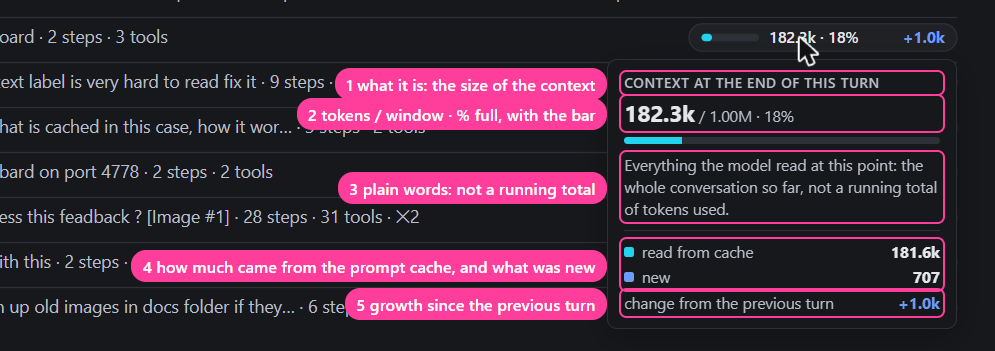
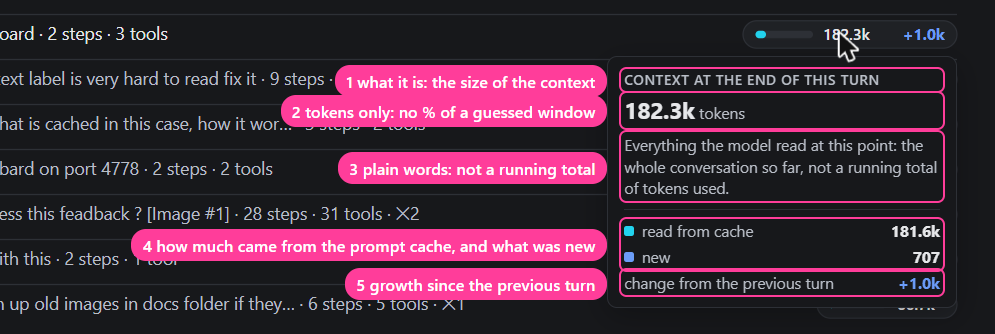
fix: context badges show tokens, not a percentage of a guessed window
The window is a guess (200k until the model's name or the tokens say 1M), so the
percentage jumped (91% → 18%) when a session crossed 200k. The badges, their hover
card, the session chip and a model step in Details now show tokens only. The bars use
one scale per session (the largest context it reached), so turns don't change scale
against each other.

diff --git a/server/dashboard/features/events/render/context-badge.js b/server/dashboard/features/events/render/context-badge.js
@@ -1,8 +1,8 @@
 'use strict';
-// Session Observer dashboard — the context badge: a bar, the size, % of the window and the change, as HTML or SVG.
-const percentOf = size => Math.round(size.fraction * 100);
+// Session Observer dashboard — the context badge: a bar, the size and the change, as HTML or SVG. No "% of the
+// window": the window is a guess (200k until the model's name or the tokens say 1M), so a percentage would jump.
 // what the number is (the whole conversation the model read, not a running total), the cache split, and the change
-const contextBadgeTooltip = size => TEXT.ctxEndTip(TEXT.ofPct(formatCompactNumber(size.tokens), formatCompactNumber(size.window), percentOf(size)))
+const contextBadgeTooltip = size => TEXT.ctxEndTip(formatCompactNumber(size.tokens))
   + '\n' + TEXT.ctxWhatTip
   + (size.cached == null ? '' : '\n' + TEXT.ctxCacheTip(formatCompactNumber(size.cached), formatCompactNumber(Math.max(0, size.tokens - size.cached))))
   + (size.change == null ? '' : '\n' + TEXT.ctxChangeTip(size.changeText, size.change < 0));
@@ -15,7 +15,7 @@ function contextBadgeHtml(size) {
   if (!size) return '';
   const change = size.changeText ? `<span class="cd ${size.tone}">${size.changeText}</span>` : '';
   return `<span class="ctxb" ${contextBadgeData(size)} aria-label="${escapeHtml(contextBadgeTooltip(size))}"><span class="cbar"><i style="width:${(size.fraction * 100).toFixed(1)}%"></i></span>`
-    + `<b>${formatCompactNumber(size.tokens)}</b><span class="muted">${percentOf(size)}%</span>${change}</span>`;
+    + `<b>${formatCompactNumber(size.tokens)}</b>${change}</span>`;
 }
 
 // the context badge in SVG, right-aligned at rightX on a turn divider (baseline y)
@@ -29,7 +29,7 @@ const BADGE = {
 function contextBadgeSvg(size, rightX, y) {
   if (!size) return '';
   const changeWidth = size.changeText ? size.changeText.length * BADGE.charWidth + BADGE.changeRoom : 0;
-  const valueText = `${formatCompactNumber(size.tokens)} · ${percentOf(size)}%`, valueWidth = valueText.length * BADGE.charWidth + BADGE.valueRoom;
+  const valueText = formatCompactNumber(size.tokens), valueWidth = valueText.length * BADGE.charWidth + BADGE.valueRoom;
   const width = BADGE.padding + BADGE.barWidth + BADGE.barGap + valueWidth + changeWidth, left = rightX - width;
   const barX = left + BADGE.padding, barY = y - BADGE.barTop, barRadius = BADGE.barHeight / 2;
   return `<g class="ctxs" ${contextBadgeData(size)} aria-label="${escapeHtml(contextBadgeTooltip(size))}"><rect class="cbg" x="${left}" y="${y - BADGE.top}" width="${width}" height="${BADGE.height}" rx="${BADGE.height / 2}"/>`

diff --git a/server/dashboard/features/route/model.js b/server/dashboard/features/route/model.js
@@ -194,6 +194,13 @@ function turnEndStepTokens(turn) {
 }
 const turnEndContextTokens = turn => turnEndStepTokens(turn)?.context ?? null;
 
+// the largest end-of-turn context of a session's turns (cached per list of turns: every turn's badge asks)
+const largestContextCache = new WeakMap();
+function largestTurnContext(sessionTurns) {
+  if (!largestContextCache.has(sessionTurns)) largestContextCache.set(sessionTurns, Math.max(0, ...sessionTurns.map(turn => turnEndContextTokens(turn) || 0)));
+  return largestContextCache.get(sessionTurns);
+}
+
 // context at the end of this turn, its change from the end of the turn before, and how full the window is
 function turnContextInfo(sessionTurns, turn) {
   const stepTokens = turnEndStepTokens(turn);
@@ -202,7 +209,7 @@ function turnContextInfo(sessionTurns, turn) {
   let previous = null;
   for (let index = sessionTurns.indexOf(turn) - 1; index >= 0 && previous == null; index--) previous = turnEndContextTokens(sessionTurns[index]);
   const session = state.sessions.get(turn.sessionId);
-  const window = contextWindowFor(session?.agent, session?.context?.window, tokens);
+  const window = contextWindowFor(session?.agent, session?.context?.window, largestTurnContext(sessionTurns));
   const change = previous == null ? null : tokens - previous;
   return contextSize(tokens, change, window, change == null ? '' : signedTokens(change), stepTokens.cache_read ?? null);
 }

diff --git a/server/dashboard/dashboard.css b/server/dashboard/dashboard.css
@@ -318,11 +318,9 @@ svg.metro { display: block; }
 #ctxtip { display: none; position: fixed; z-index: 50; width: 280px; pointer-events: none; padding: 11px 13px; background: var(--panel); color: var(--text);
   border: 1px solid var(--line); border-radius: 8px; box-shadow: 0 6px 24px rgba(0, 0, 0, .25); font-size: 12.5px; line-height: 1.4; }
 #ctxtip .ct-h { color: var(--muted); font-size: 11px; font-weight: 600; text-transform: uppercase; letter-spacing: .05em; }
-#ctxtip .ct-size { margin-top: 4px; font-variant-numeric: tabular-nums; }
+#ctxtip .ct-size { margin: 4px 0 6px; font-variant-numeric: tabular-nums; }
 #ctxtip .ct-size b { font-size: 18px; }
 #ctxtip .ct-size span { color: var(--muted); }
-#ctxtip .ct-bar { height: 6px; margin: 6px 0 8px; border-radius: 3px; background: var(--line); overflow: hidden; }
-#ctxtip .ct-bar i { display: block; height: 100%; background: var(--s-context); }
 #ctxtip .ct-what { color: var(--muted); }
 #ctxtip .ct-rows { margin-top: 8px; padding-top: 8px; border-top: 1px solid var(--line); display: grid; gap: 3px; }
 #ctxtip .ct-row { display: flex; justify-content: space-between; gap: 12px; font-variant-numeric: tabular-nums; }

diff --git a/server/dashboard/features/details/render/event-cards.js b/server/dashboard/features/details/render/event-cards.js
@@ -184,7 +184,7 @@ function stepTokensHtml(tokens, contextTokens, window) {
   const segments = [['cache_read', TEXT.cacheRead, 'var(--s-context)'], ['cache_write', TEXT.cacheWrite, 'var(--s-model)'], ['input', TEXT.uncached, 'var(--accent)']];
   const bar = segments.map(([field, , color]) => (tokens[field] ? `<i style="width:${(100 * tokens[field] / window).toFixed(2)}%;background:${color}"></i>` : '')).join('');
   const legend = segments.map(([field, label, color]) => `<span><i style="background:${color}"></i>${label} <b>${formatCompactNumber(tokens[field] || 0)}</b></span>`).join('');
-  return `<div><div class="k">${escapeHtml(TEXT.groups.context)} · ${escapeHtml(TEXT.ofPct(formatCompactNumber(contextTokens), formatCompactNumber(window), Math.round(100 * contextTokens / window)))}</div><div class="tokbar">${bar}</div>
+  return `<div><div class="k">${escapeHtml(TEXT.groups.context)} · ${escapeHtml(formatCompactNumber(contextTokens))} ${escapeHtml(TEXT.tokensLc)}</div><div class="tokbar">${bar}</div>
     <div class="toklg">${legend}<span>${escapeHtml(TEXT.outputLc)} <b>${formatCompactNumber(tokens.output || 0)}</b></span></div></div>`;
 }
 

diff --git a/server/dashboard/features/sessions/render.js b/server/dashboard/features/sessions/render.js
@@ -52,7 +52,7 @@ function sessionChipsHtml(session) {
     + (session.model ? `<span class="chip">${escapeHtml(session.model)}</span>` : '')
     + (session.subagents ? `<span class="chip">${iconSvg('agents')}${session.subagents}</span>` : '')
     + (session.failures ? `<span class="chip"><span class="x">✕ ${session.failures}</span></span>` : '')
-    + (session.context ? `<span class="chip" title="${escapeHtml(TEXT.ctxWindow)}">${escapeHtml(TEXT.ctxShort)} ${Math.round(session.context.pct * 100)}%</span>` : '');
+    + (session.context ? `<span class="chip" title="${escapeHtml(TEXT.ctxWindow)}">${escapeHtml(TEXT.ctxShort)} ${formatCompactNumber(session.context.tokens)}</span>` : '');
 }
 
 // The list shows the state dot, the title, and under it when and where; the rest is in a card that floats beside it on hover.

diff --git a/server/dashboard/features/context/model.js b/server/dashboard/features/context/model.js
@@ -61,7 +61,9 @@ const splitMcpToolName = name => { const match = /^mcp__(.+?)__(.+)$/.exec(name)
 // a context size for a badge (see contextSize in features/events/model/context-window.js)
 function contextSizeInfo(tokens, change, cached = null) {
   const data = contextView.data;
-  const window = data?.window || contextWindowFor(data?.agent, data?.context?.window, tokens);
+  // the largest step of the session picks the window, so every badge uses the same scale
+  const largest = Math.max(tokens, ...(data?.items || []).filter(item => item.kind === 'step').map(step => step.ctx || 0));
+  const window = data?.window || contextWindowFor(data?.agent, data?.context?.window, largest);
   return contextSize(tokens, change, window, change ? signedTokens(change) : '', cached);
 }
 

diff --git a/server/dashboard/features/events/controls/context-tip.js b/server/dashboard/features/events/controls/context-tip.js
@@ -24,8 +24,7 @@ function contextTipHtml(size) {
     rows.push(`<div class="ct-row ct-change"><span>${escapeHtml(label)}</span><b class="cd ${size.tone}">${escapeHtml(size.changeText)}</b></div>`);
   }
   return `<div class="ct-h">${escapeHtml(TEXT.ctxTipTitle)}</div>
-    <div class="ct-size"><b>${formatCompactNumber(size.tokens)}</b> <span>/ ${formatCompactNumber(size.window)} · ${percentOf(size)}%</span></div>
-    <div class="ct-bar"><i style="width:${(size.fraction * 100).toFixed(1)}%"></i></div>
+    <div class="ct-size"><b>${formatCompactNumber(size.tokens)}</b> <span>${escapeHtml(TEXT.tokensLc)}</span></div>
     <div class="ct-what">${escapeHtml(TEXT.ctxWhatTip)}</div>
     ${rows.length ? `<div class="ct-rows">${rows.join('')}</div>` : ''}`;
 }

diff --git a/server/dashboard/building-blocks/language/translations/ja.js b/server/dashboard/building-blocks/language/translations/ja.js
@@ -130,6 +130,7 @@ TRANSLATIONS.ja = (() => {
     eventTypes: 'イベントの種類',
 
     backX: d => `戻り · ${d}`,
+    tokensLc: 'トークン',
     ctxTipTitle: 'このターン終了時のコンテキスト', ctxTipNew: '新規', ctxTipChange: '前のターンからの変化', ctxTipCompacted: '圧縮済み',
     ctxWhatTip: 'この時点でモデルが読んだすべて：これまでの会話全体であり、使用トークンの累計ではありません。', ctxCacheTip: (cached, fresh) => `うちキャッシュから: ${cached} · 新規: ${fresh}`,
     ctxEndTip: o => `このターン終了時のコンテキスト: ${o}`, ctxChangeTip: (d, comp) => `前のターンからの変化: ${d}${comp ? '（圧縮済み）' : ''}`,

diff --git a/server/dashboard/building-blocks/language/translations/fr.js b/server/dashboard/building-blocks/language/translations/fr.js
@@ -132,6 +132,7 @@ TRANSLATIONS.fr = (() => {
     eventTypes: 'Types d’événements',
 
     backX: d => `retour · ${d}`,
+    tokensLc: 'tokens',
     ctxTipTitle: 'Contexte à la fin de ce tour', ctxTipNew: 'nouveau', ctxTipChange: 'variation depuis le tour précédent', ctxTipCompacted: 'compacté',
     ctxWhatTip: 'Tout ce que le modèle a lu à ce moment : toute la conversation jusqu’ici, pas un total cumulé des tokens utilisés.', ctxCacheTip: (cached, fresh) => `Dont lu depuis le cache : ${cached} · nouveau : ${fresh}`,
     ctxEndTip: o => `Contexte à la fin de ce tour : ${o}`, ctxChangeTip: (d, comp) => `Variation depuis le tour précédent : ${d}${comp ? ' (compacté)' : ''}`,

diff --git a/server/dashboard/building-blocks/language/translations/it.js b/server/dashboard/building-blocks/language/translations/it.js
@@ -132,6 +132,7 @@ TRANSLATIONS.it = (() => {
     eventTypes: 'Tipi di evento',
 
     backX: d => `ritorno · ${d}`,
+    tokensLc: 'token',
     ctxTipTitle: 'Contesto alla fine di questo turno', ctxTipNew: 'nuovo', ctxTipChange: 'variazione dal turno precedente', ctxTipCompacted: 'compattato',
     ctxWhatTip: 'Tutto ciò che il modello ha letto a questo punto: l’intera conversazione finora, non un totale cumulativo dei token usati.', ctxCacheTip: (cached, fresh) => `Di cui letto dalla cache: ${cached} · nuovo: ${fresh}`,
     ctxEndTip: o => `Contesto alla fine di questo turno: ${o}`, ctxChangeTip: (d, comp) => `Variazione dal turno precedente: ${d}${comp ? ' (compattato)' : ''}`,

diff --git a/server/dashboard/building-blocks/language/translations/es.js b/server/dashboard/building-blocks/language/translations/es.js
@@ -132,6 +132,7 @@ TRANSLATIONS.es = (() => {
     eventTypes: 'Tipos de evento',
 
     backX: d => `vuelve · ${d}`,
+    tokensLc: 'tokens',
     ctxTipTitle: 'Contexto al final de este turno', ctxTipNew: 'nuevo', ctxTipChange: 'cambio respecto al turno anterior', ctxTipCompacted: 'compactado',
     ctxWhatTip: 'Todo lo que el modelo leyó en este punto: la conversación completa hasta ahora, no un total acumulado de tokens usados.', ctxCacheTip: (cached, fresh) => `De eso, leído de la caché: ${cached} · nuevo: ${fresh}`,
     ctxEndTip: o => `Contexto al final de este turno: ${o}`, ctxChangeTip: (d, comp) => `Cambio respecto al turno anterior: ${d}${comp ? ' (compactado)' : ''}`,

diff --git a/server/dashboard/building-blocks/language/translations/ko.js b/server/dashboard/building-blocks/language/translations/ko.js
@@ -130,6 +130,7 @@ TRANSLATIONS.ko = (() => {
     eventTypes: '이벤트 종류',
 
     backX: d => `복귀 · ${d}`,
+    tokensLc: '토큰',
     ctxTipTitle: '이 턴이 끝날 때의 컨텍스트', ctxTipNew: '새로', ctxTipChange: '이전 턴 대비 변화', ctxTipCompacted: '압축됨',
     ctxWhatTip: '이 시점에 모델이 읽은 전체: 지금까지의 대화 전체이며, 사용한 토큰의 누적 합계가 아닙니다.', ctxCacheTip: (cached, fresh) => `그중 캐시에서: ${cached} · 새로: ${fresh}`,
     ctxEndTip: o => `이 턴이 끝날 때의 컨텍스트: ${o}`, ctxChangeTip: (d, comp) => `이전 턴 대비 변화: ${d}${comp ? ' (압축됨)' : ''}`,
